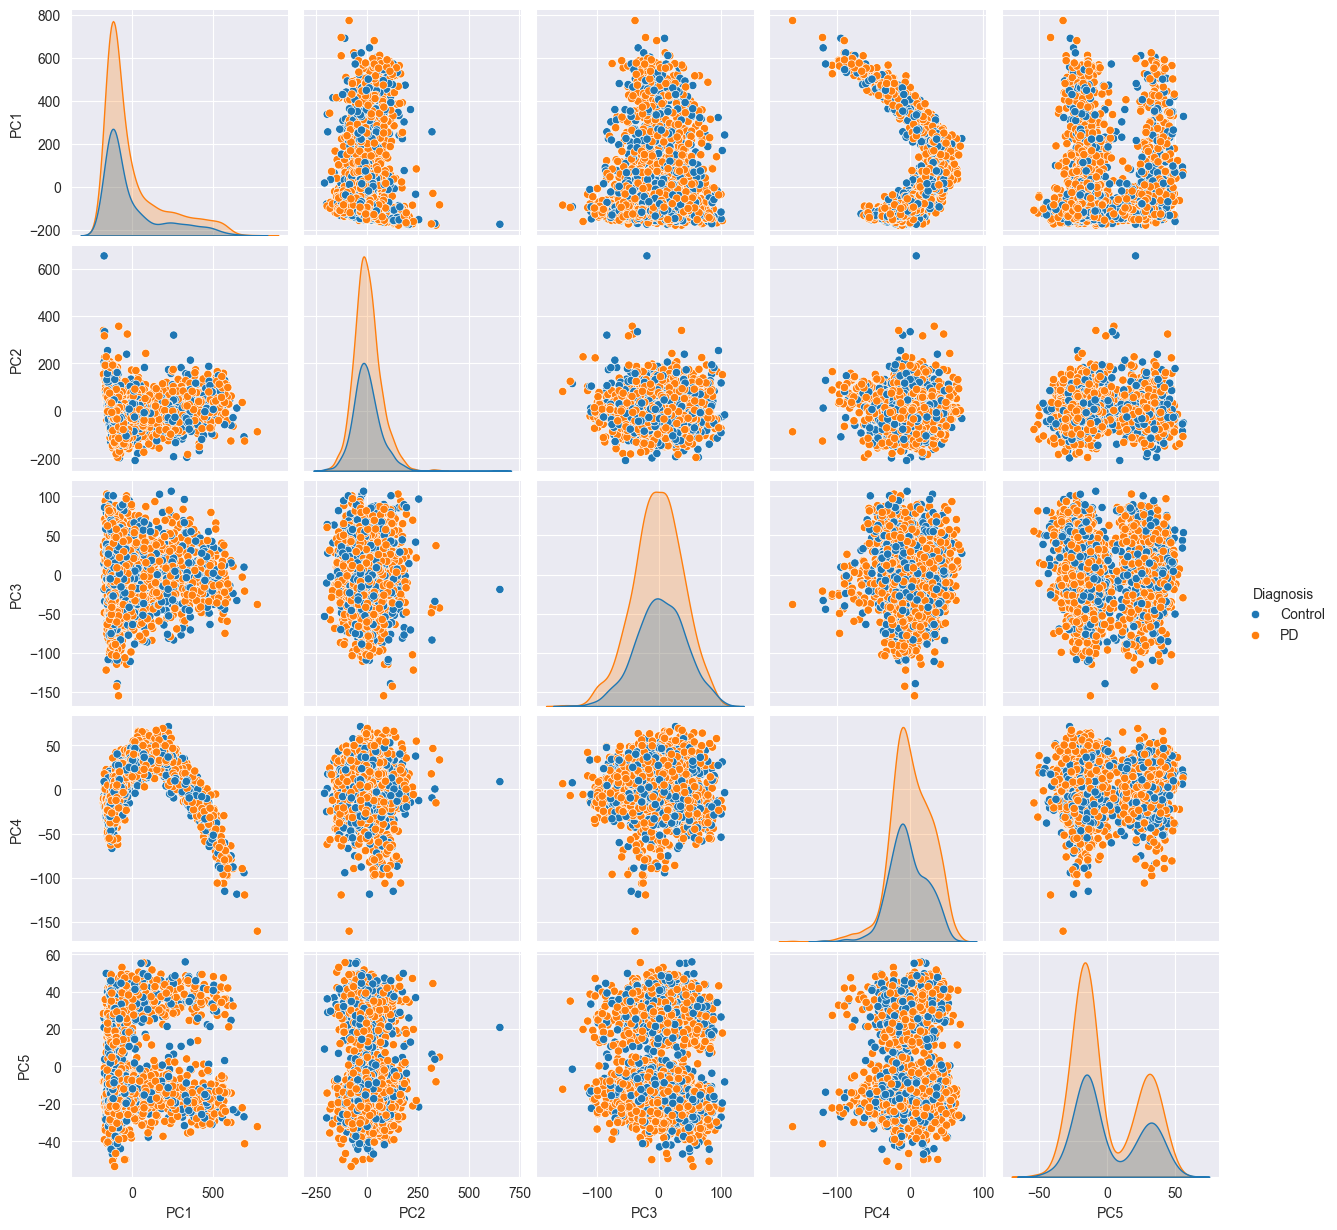
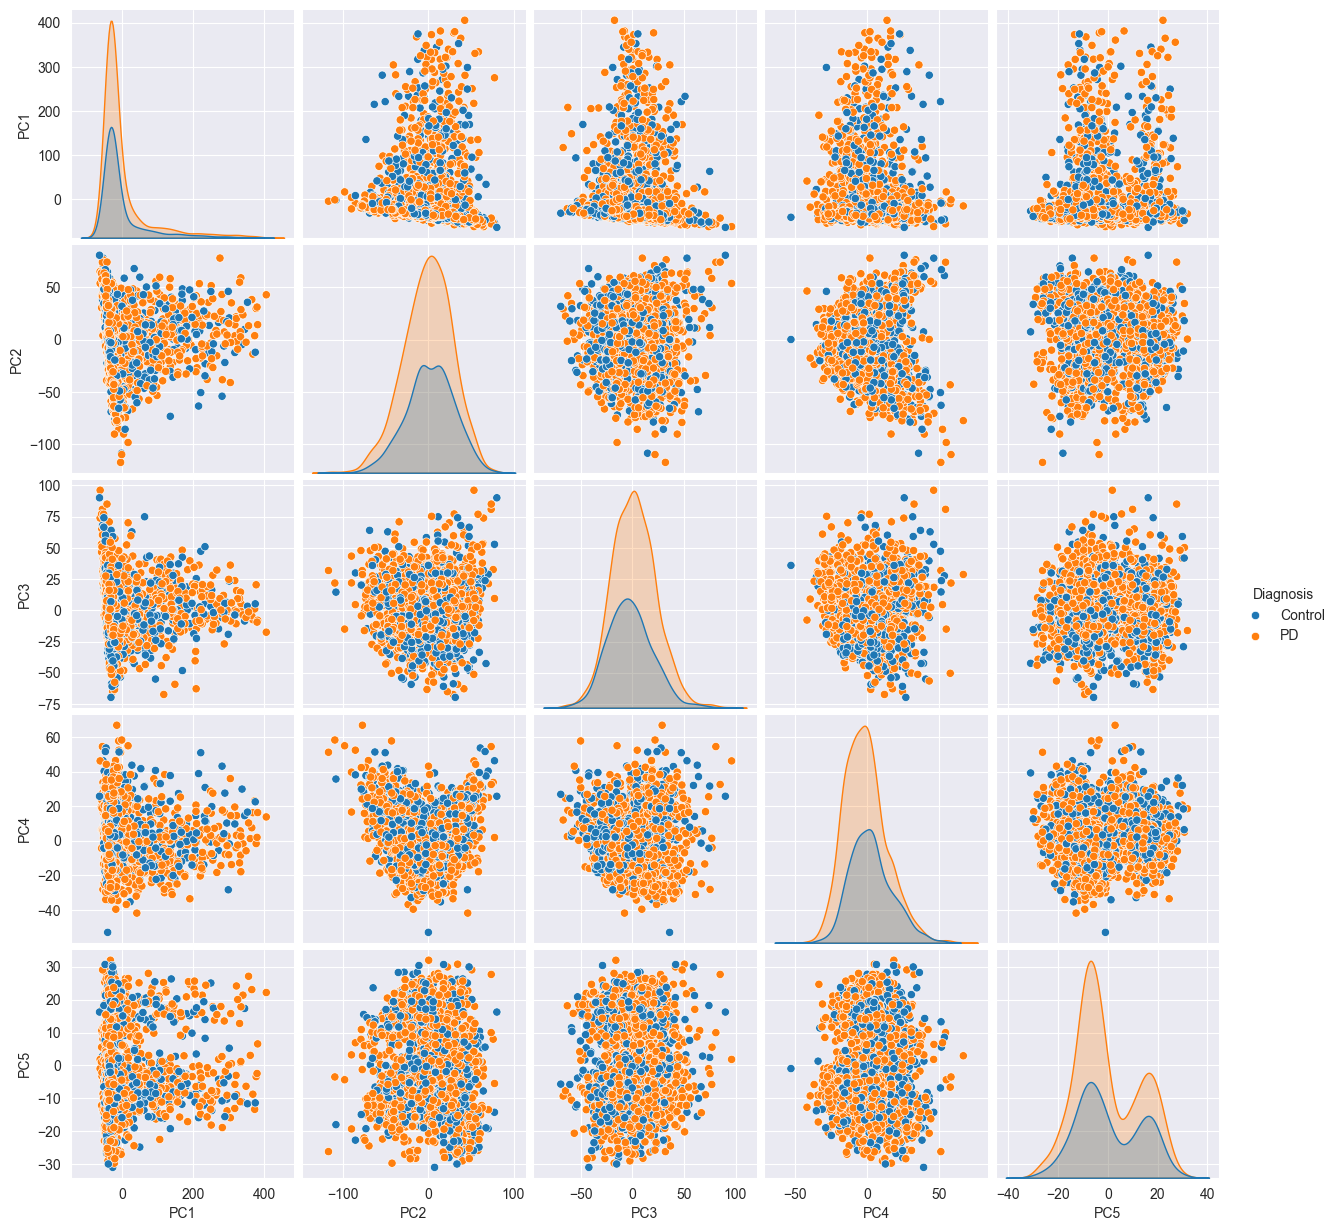
Adjusments and backup

diff --git a/main.tex b/main.tex
@@ -473,6 +473,18 @@
                 \caption[Πλήθος συμμετέχοντων ανά φύλο]{Επάνω αριστερά: Συμμετέχοντες ανά φύλο συνολικα, Επάνω δεξιά: Συμμετέχοντες ανά ομάδα. Κάτω αριστερά: Συμμετέχοντες ανά ομάδα και επίσκεψη. Κάτω δεξιά: Συμμετέχοντες ανά ομάδα και επίσκεψη.}
                 \label{fig:ppmi-proportion-of-genders-absolute-and-per-cohort}
             \end{figure}
+        \par
+            Πρέπει να σημειωθεί ότι η αλληλούχιση διενεργήθηκε σε δύο διαφορετικές φάσεις. Αυτό δεν σημαίνει πως η δειγματοληψία ακολούθησε επίσης αυτόν τον διαχωρισμό, έτσι ώστε να προκύψουν για κάθε συμμετέχοντα δέκα δείγματα, ήτοι πέντε επισκέψεις επί δύο φάσεις, αλλά δείγματα από τις πέντε (\emph{ή και λιγότερα}) διαφορετικές επισκέψεις μπορεί να αλληλουχίστηκαν σε διαφορετικές φάσεις. Σαφώς αυτό καθιστά έναν τεχνικό παράγοντα που μπορεί να οδηγήσει σε ανακριβή αποτελέσματα σε αναλύσεις. 
+        \par
+            Στα πλαίσια του χαρακτηρισμού των δεδομένων διενεργήθηκε ανάλυση κυρίων συνιστωσών, ως προς την ανίχνευση τεχνικών παραγόντων που ενέχουν τον κίνδυνο παρεμβολών. Όπως παρουσιάζεται και στην εικόνα \ref{fig:ppmi-pca-pd-ctrl-all-visits-hue-phase}, δεν απεικονίζονται διαφορετικές συστάδες για τις πρώτες πέντε κύριες συνιστώσες, κάτι που σημαίνει πως η μεταβλητότητα που εισάγεται από τον τεχνικό παράγοντα της φάσης αλληλούχισης ενδεχομένως είναι αμελητέα χαμηλή.
+
+            \begin{figure}[h]
+                \centering
+                \includegraphics[width=0.8\linewidth]{Chapter-2-Section-2.1/ppmi-pca-pd-ctrl-all-visits-hue-phase.png}
+                \caption{PCA σύμφωνα με την φάση αλληλούχισης}
+                \label{fig:ppmi-pca-pd-ctrl-all-visits-hue-phase}
+            \end{figure}
+        \newpage
 
         \section{Ανάλυση κυρίων συνιστωσών}
             \par
@@ -502,11 +514,12 @@
                     \toprule
                     \textbf{PC 1} & \textbf{PC 2} & \textbf{PC 3} & \textbf{PC 4} & \textbf{PC 5} \\
                     \midrule
-                    57,65\% & 7,43\% & 2,54\% & 1,20\% & 0,95\% \\
+                    56,88\% & 8,77\% & 5,15\% & 2,44\% & 1,78\% \\
                     \bottomrule
                 \end{tabular}
                 \label{tab:pca}
-            \end{table}           
+            \end{table}
+
 
     % \subsection{First Subsection}
     % \subsubsection{First Subsubsection}
